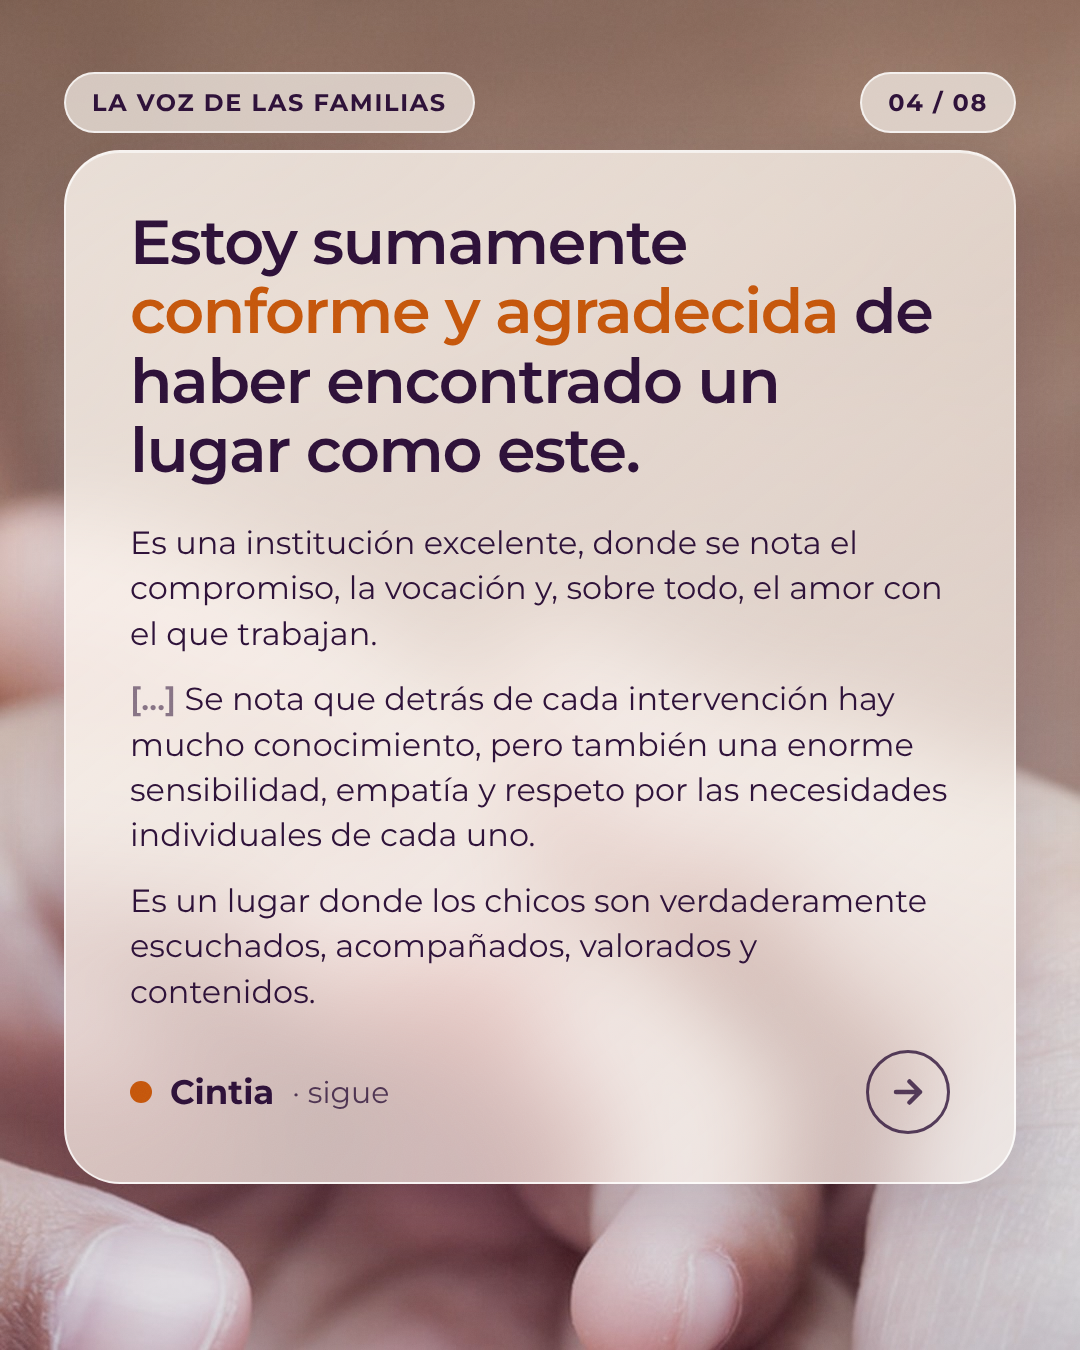
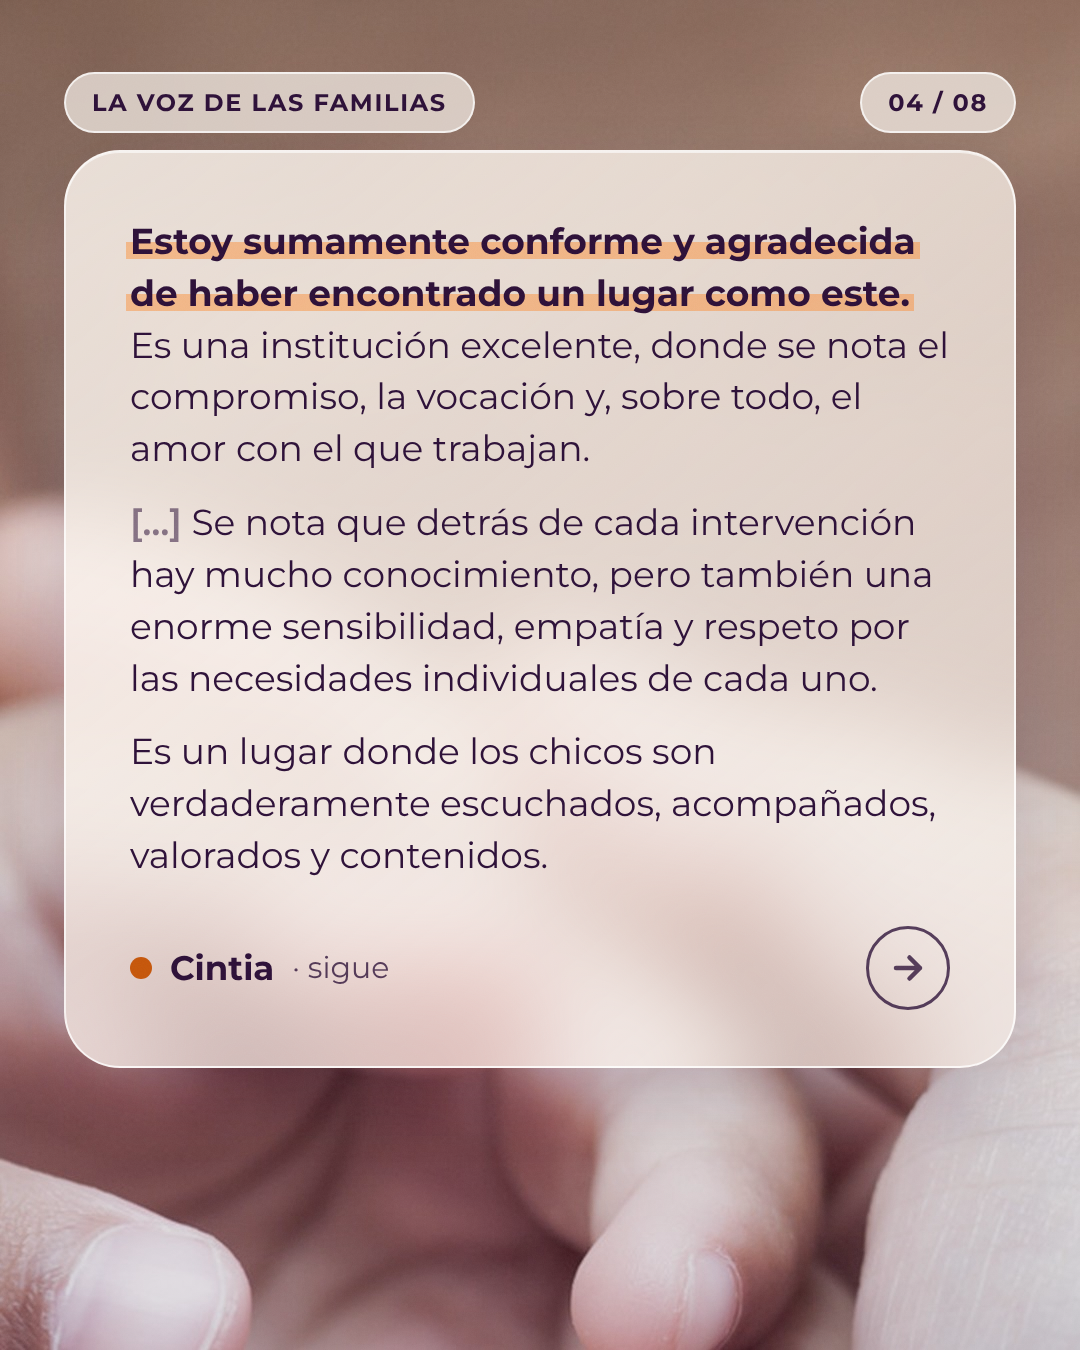
ADIP carousel v7: same-size highlight with marker
Claude-Session: https://claude.ai/code/session_01M2Lxgiueyi8rDFxgAsKuBZ

Changed region(s): [[0.1222, 0.1556, 0.8861, 0.7467], [0.0611, 0.7467, 0.9472, 0.9022]]

diff --git a/adip-carrusel-resenas/fuente/carrusel.html b/adip-carrusel-resenas/fuente/carrusel.html
@@ -4,7 +4,7 @@
 <meta charset="utf-8">
 <title>Equipo ADIP · Carrusel reseñas de familias</title>
 <!--
-  ARCHIVO FUENTE EDITABLE — Carrusel "Hay palabras que nos acercan." (v6 · vidrio esmerilado sobre fotos de banco de imágenes — Adobe Stock, colección gratuita)
+  ARCHIVO FUENTE EDITABLE — Carrusel "Hay palabras que nos acercan." (v7 · frase destacada al mismo tamaño, con resaltador · vidrio esmerilado sobre fotos de banco de imágenes — Adobe Stock, colección gratuita)
   Cada <section class="slide"> es una placa de 1080 × 1350 px.
   Exportar PNG:  node render.mjs   (desde esta carpeta)
 
@@ -81,8 +81,11 @@
   .cita { font-weight: 600; font-size: 62px; line-height: 1.12; letter-spacing: -.022em; }
   .cita em { font-style: normal; color: var(--acento); }
   .oscura .cita em { color: #FFB877; }
-  .texto { font-weight: 400; font-size: 34px; line-height: 1.42; }
-  .texto p + p { margin-top: 20px; }
+  .texto { font-weight: 400; font-size: 36px; line-height: 1.44; }
+  /* Frase destacada: mismo tamaño, remarcada con resaltador y peso */
+  .texto mark { color: inherit; font-weight: 700; background: linear-gradient(transparent 52%, rgba(254,128,28,.42) 52%, rgba(254,128,28,.42) 92%, transparent 92%); box-decoration-break: clone; -webkit-box-decoration-break: clone; padding: 0 .12em; margin: 0 -.12em; }
+  .texto p { text-wrap: pretty; }
+  .texto p + p { margin-top: 22px; }
   .cita + .texto, .texto + .cita { margin-top: 34px; }
   .omite { opacity: .55; font-weight: 600; }
 
@@ -123,9 +126,8 @@
   <div class="top"><span class="pastilla">La voz de las familias</span><span class="pastilla">02 / 08</span></div>
   <div class="zona abajo" style="bottom:120px;">
     <div class="vidrio">
-      <p class="cita">Desde que pisamos el lugar, es <em>amor, respeto, empatía,</em></p>
       <div class="texto">
-        <p>saben entender las inseguridades como familia, e identificar las necesidades de mi hijo... en lo personal, no tengo más que agradecimiento, y 100% confiable, poseen cámaras en todos los espacios, las referentes y coordinadoras tienen una calidez humana hermosa... Gracias Equipo ADIP por sacar adelante a mi hijo!</p>
+        <p><mark>Desde que pisamos el lugar, es amor, respeto, empatía,</mark> saben entender las inseguridades como familia, e identificar las necesidades de mi hijo... en lo personal, no tengo más que agradecimiento, y 100% confiable, poseen cámaras en todos los espacios, las referentes y coordinadoras tienen una calidez humana hermosa... Gracias Equipo ADIP por sacar adelante a mi hijo!</p>
       </div>
       <div class="pie"><span class="firma">Sabrina</span><span class="flecha"><svg viewBox="0 0 24 24"><path d="M4 12h16M13 5l7 7-7 7"/></svg></span></div>
     </div>
@@ -137,17 +139,14 @@
   <div class="fondo"></div>
   <div class="top"><span class="pastilla">La voz de las familias</span><span class="pastilla">03 / 08</span></div>
   <div class="zona arriba" style="top:164px;">
-    <div class="vidrio" style="padding-top:58px;">
-      <div class="texto" style="font-size:33px;">
+    <div class="vidrio">
+      <div class="texto">
         <p>Excelente centro. Quiero destacar la organización en la entrada y salida de los chicos, siempre con mucho orden, paciencia y cuidado.</p>
         <p>Las personas que están en la puerta son muy amables, atentas y siempre dispuestas a ayudar, te hacen sentir tranquilo al dejar a tu hijo.</p>
-        <p>Y los maestras un 10, con mucha dedicación, cariño y compromiso con cada chico.</p>
-      </div>
-      <p class="cita" style="font-size:66px;">Se nota que <em>aman lo que hacen.</em></p>
-      <div class="texto" style="font-size:33px;">
+        <p>Y los maestras un 10, con mucha dedicación, cariño y compromiso con cada chico. <mark>Se nota que aman lo que hacen.</mark></p>
         <p>Super recomendable para todas las familias. Gracias ADIP por tanto!</p>
       </div>
-      <div class="pie" style="margin-top:36px;"><span class="firma">Walter</span><span class="flecha"><svg viewBox="0 0 24 24"><path d="M4 12h16M13 5l7 7-7 7"/></svg></span></div>
+      <div class="pie"><span class="firma">Walter</span><span class="flecha"><svg viewBox="0 0 24 24"><path d="M4 12h16M13 5l7 7-7 7"/></svg></span></div>
     </div>
   </div>
 </section>
@@ -157,14 +156,13 @@
   <div class="fondo"></div>
   <div class="top"><span class="pastilla">La voz de las familias</span><span class="pastilla">04 / 08</span></div>
   <div class="zona arriba" style="top:150px;">
-    <div class="vidrio" style="padding:56px 64px 48px;">
-      <p class="cita">Estoy sumamente <em>conforme y agradecida</em> de haber encontrado un lugar como este.</p>
-      <div class="texto" style="font-size:32px;">
-        <p>Es una institución excelente, donde se nota el compromiso, la vocación y, sobre todo, el amor con el que trabajan.</p>
+    <div class="vidrio">
+      <div class="texto">
+        <p><mark>Estoy sumamente conforme y agradecida de haber encontrado un lugar como este.</mark> Es una institución excelente, donde se nota el compromiso, la vocación y, sobre todo, el amor con el que trabajan.</p>
         <p><span class="omite">[…]</span> Se nota que detrás de cada intervención hay mucho conocimiento, pero también una enorme sensibilidad, empatía y respeto por las necesidades individuales de cada uno.</p>
         <p>Es un lugar donde los chicos son verdaderamente escuchados, acompañados, valorados y contenidos.</p>
       </div>
-      <div class="pie" style="margin-top:36px;"><span class="firma">Cintia <small>· sigue</small></span><span class="flecha"><svg viewBox="0 0 24 24"><path d="M4 12h16M13 5l7 7-7 7"/></svg></span></div>
+      <div class="pie"><span class="firma">Cintia <small>· sigue</small></span><span class="flecha"><svg viewBox="0 0 24 24"><path d="M4 12h16M13 5l7 7-7 7"/></svg></span></div>
     </div>
   </div>
 </section>
@@ -175,11 +173,11 @@
   <div class="top"><span class="pastilla">La voz de las familias</span><span class="pastilla">05 / 08</span></div>
   <div class="zona abajo" style="bottom:110px;">
     <div class="vidrio">
-      <div class="texto" style="font-size:35px;">
+      <div class="texto">
         <p>Como mamá, no hay nada más importante que sentir tranquilidad y confianza al saber que tu hijo está en manos de personas que trabajan con tanta dedicación y vocación.</p>
-        <p>Mi reconocimiento y agradecimiento a todo el equipo por la enorme labor que realizan. <span class="omite">[…]</span></p>
+        <p>Mi reconocimiento y agradecimiento a todo el equipo por la enorme labor que&nbsp;realizan.&nbsp;<span class="omite">[…]</span></p>
+        <p><mark>Sin dudas, un lugar que recomiendo con los ojos cerrados.</mark></p>
       </div>
-      <p class="cita" style="font-size:76px; margin-top:44px;">Sin dudas, un lugar que recomiendo <em>con los ojos cerrados.</em></p>
       <div class="pie"><span class="firma">Cintia</span><span class="flecha"><svg viewBox="0 0 24 24"><path d="M4 12h16M13 5l7 7-7 7"/></svg></span></div>
     </div>
   </div>
@@ -191,9 +189,8 @@
   <div class="top"><span class="pastilla">La voz de las familias</span><span class="pastilla">06 / 08</span></div>
   <div class="zona abajo" style="bottom:130px;">
     <div class="vidrio">
-      <p class="cita" style="font-size:84px;">Adip fue para mi hijo y para mí <em>un lugar seguro.</em></p>
-      <div class="texto" style="font-size:36px;">
-        <p>Un espacio en el que no hubo rechazo, en el que recibimos apoyo y contención. Y con esa plataforma, ambos pudimos desarrollarnos y tener un presente prometedor. Gracias.</p>
+      <div class="texto">
+        <p><mark>Adip fue para mi hijo y para mí un lugar seguro.</mark> Un espacio en el que no hubo rechazo, en el que recibimos apoyo y contención. Y con esa plataforma, ambos pudimos desarrollarnos y tener un presente prometedor. Gracias.</p>
       </div>
       <div class="pie"><span class="firma">Ines</span><span class="flecha"><svg viewBox="0 0 24 24"><path d="M4 12h16M13 5l7 7-7 7"/></svg></span></div>
     </div>
@@ -206,12 +203,8 @@
   <div class="top"><span class="pastilla">La voz de las familias</span><span class="pastilla">07 / 08</span></div>
   <div class="zona abajo" style="bottom:110px;">
     <div class="vidrio">
-      <div class="texto" style="font-size:37px;">
-        <p>Mi hija asiste desde este 2026 al CET, estamos muy contentos como vemos que trabajan con tanta dedicación, responsabilidad y amor.</p>
-      </div>
-      <p class="cita" style="font-size:118px; font-weight:700; line-height:1.0; margin-top:44px;"><em>Ella va contenta al CET.</em></p>
-      <div class="texto" style="font-size:37px; margin-top:40px;">
-        <p>Y seguirá yendo el próximo año.</p>
+      <div class="texto">
+        <p>Mi hija asiste desde este 2026 al CET, estamos muy contentos como vemos que trabajan con tanta dedicación, responsabilidad y amor. <mark>Ella va contenta al CET.</mark> Y seguirá yendo el próximo año.</p>
       </div>
       <div class="pie"><span class="firma">Milu</span><span class="flecha"><svg viewBox="0 0 24 24"><path d="M4 12h16M13 5l7 7-7 7"/></svg></span></div>
     </div>
